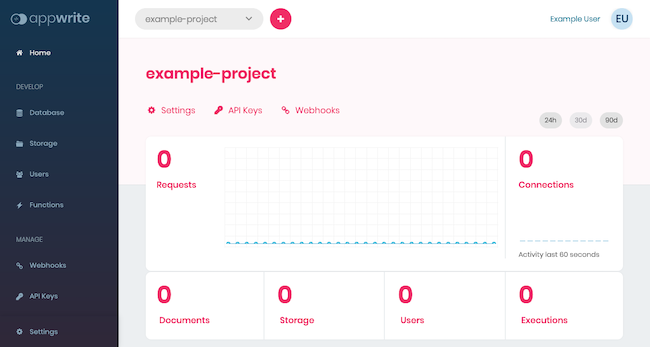
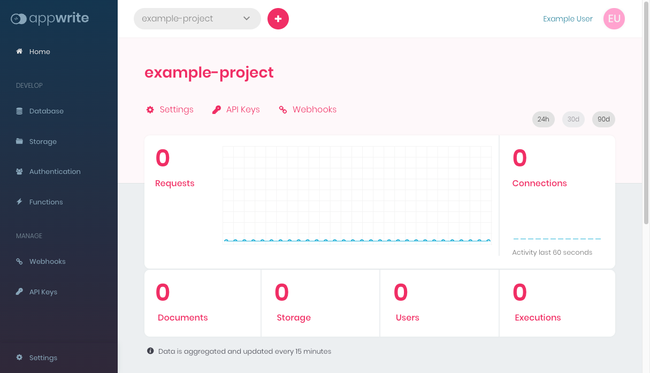
Tech Edit 2 - Getting Started with Appwrite as a Backend Server

diff --git a/docs/guides/web-servers/appwrite/getting-started-appwrite/index.md b/docs/guides/web-servers/appwrite/getting-started-appwrite/index.md
@@ -117,7 +117,7 @@ Appwrite can be installed with a single Docker command. Essentially, this comman
 The command creates a new `appwrite` directory in the current directory, and this new directory becomes the base for your Appwrite instance:
 
 ```code
-sudo docker run -it --rm --volume /var/run/docker.sock:/var/run/docker.sock --volume "$(pwd)"/appwrite:/usr/src/code/appwrite:rw --entrypoint="install" appwrite/appwrite:0.15.1
+sudo docker run -it --rm --volume /var/run/docker.sock:/var/run/docker.sock --volume "$(pwd)"/appwrite:/usr/src/code/appwrite:rw --entrypoint="install" appwrite/appwrite:1.0.3
 ```
 
 Progress through the prompts, which allow you to set the initial configuration options for your Appwrite instance. You can press **Enter** at each prompt to receive the default values.
@@ -250,7 +250,7 @@ Here you can see the initial steps for creating an Appwrite project. This can se
 
     -   Use the **Database** option to create a database. Appwrite uses a document-based database, but gives you a graphical interface for adding and managing collections and documents.
 
-    -   Add and manage users for your project with the **Users** option.
+    -   Add and manage users for your project with the **Authentication** option.
 
     -   Add functions to execute custom code from your Appwrite instance using the **Functions** option.
 
